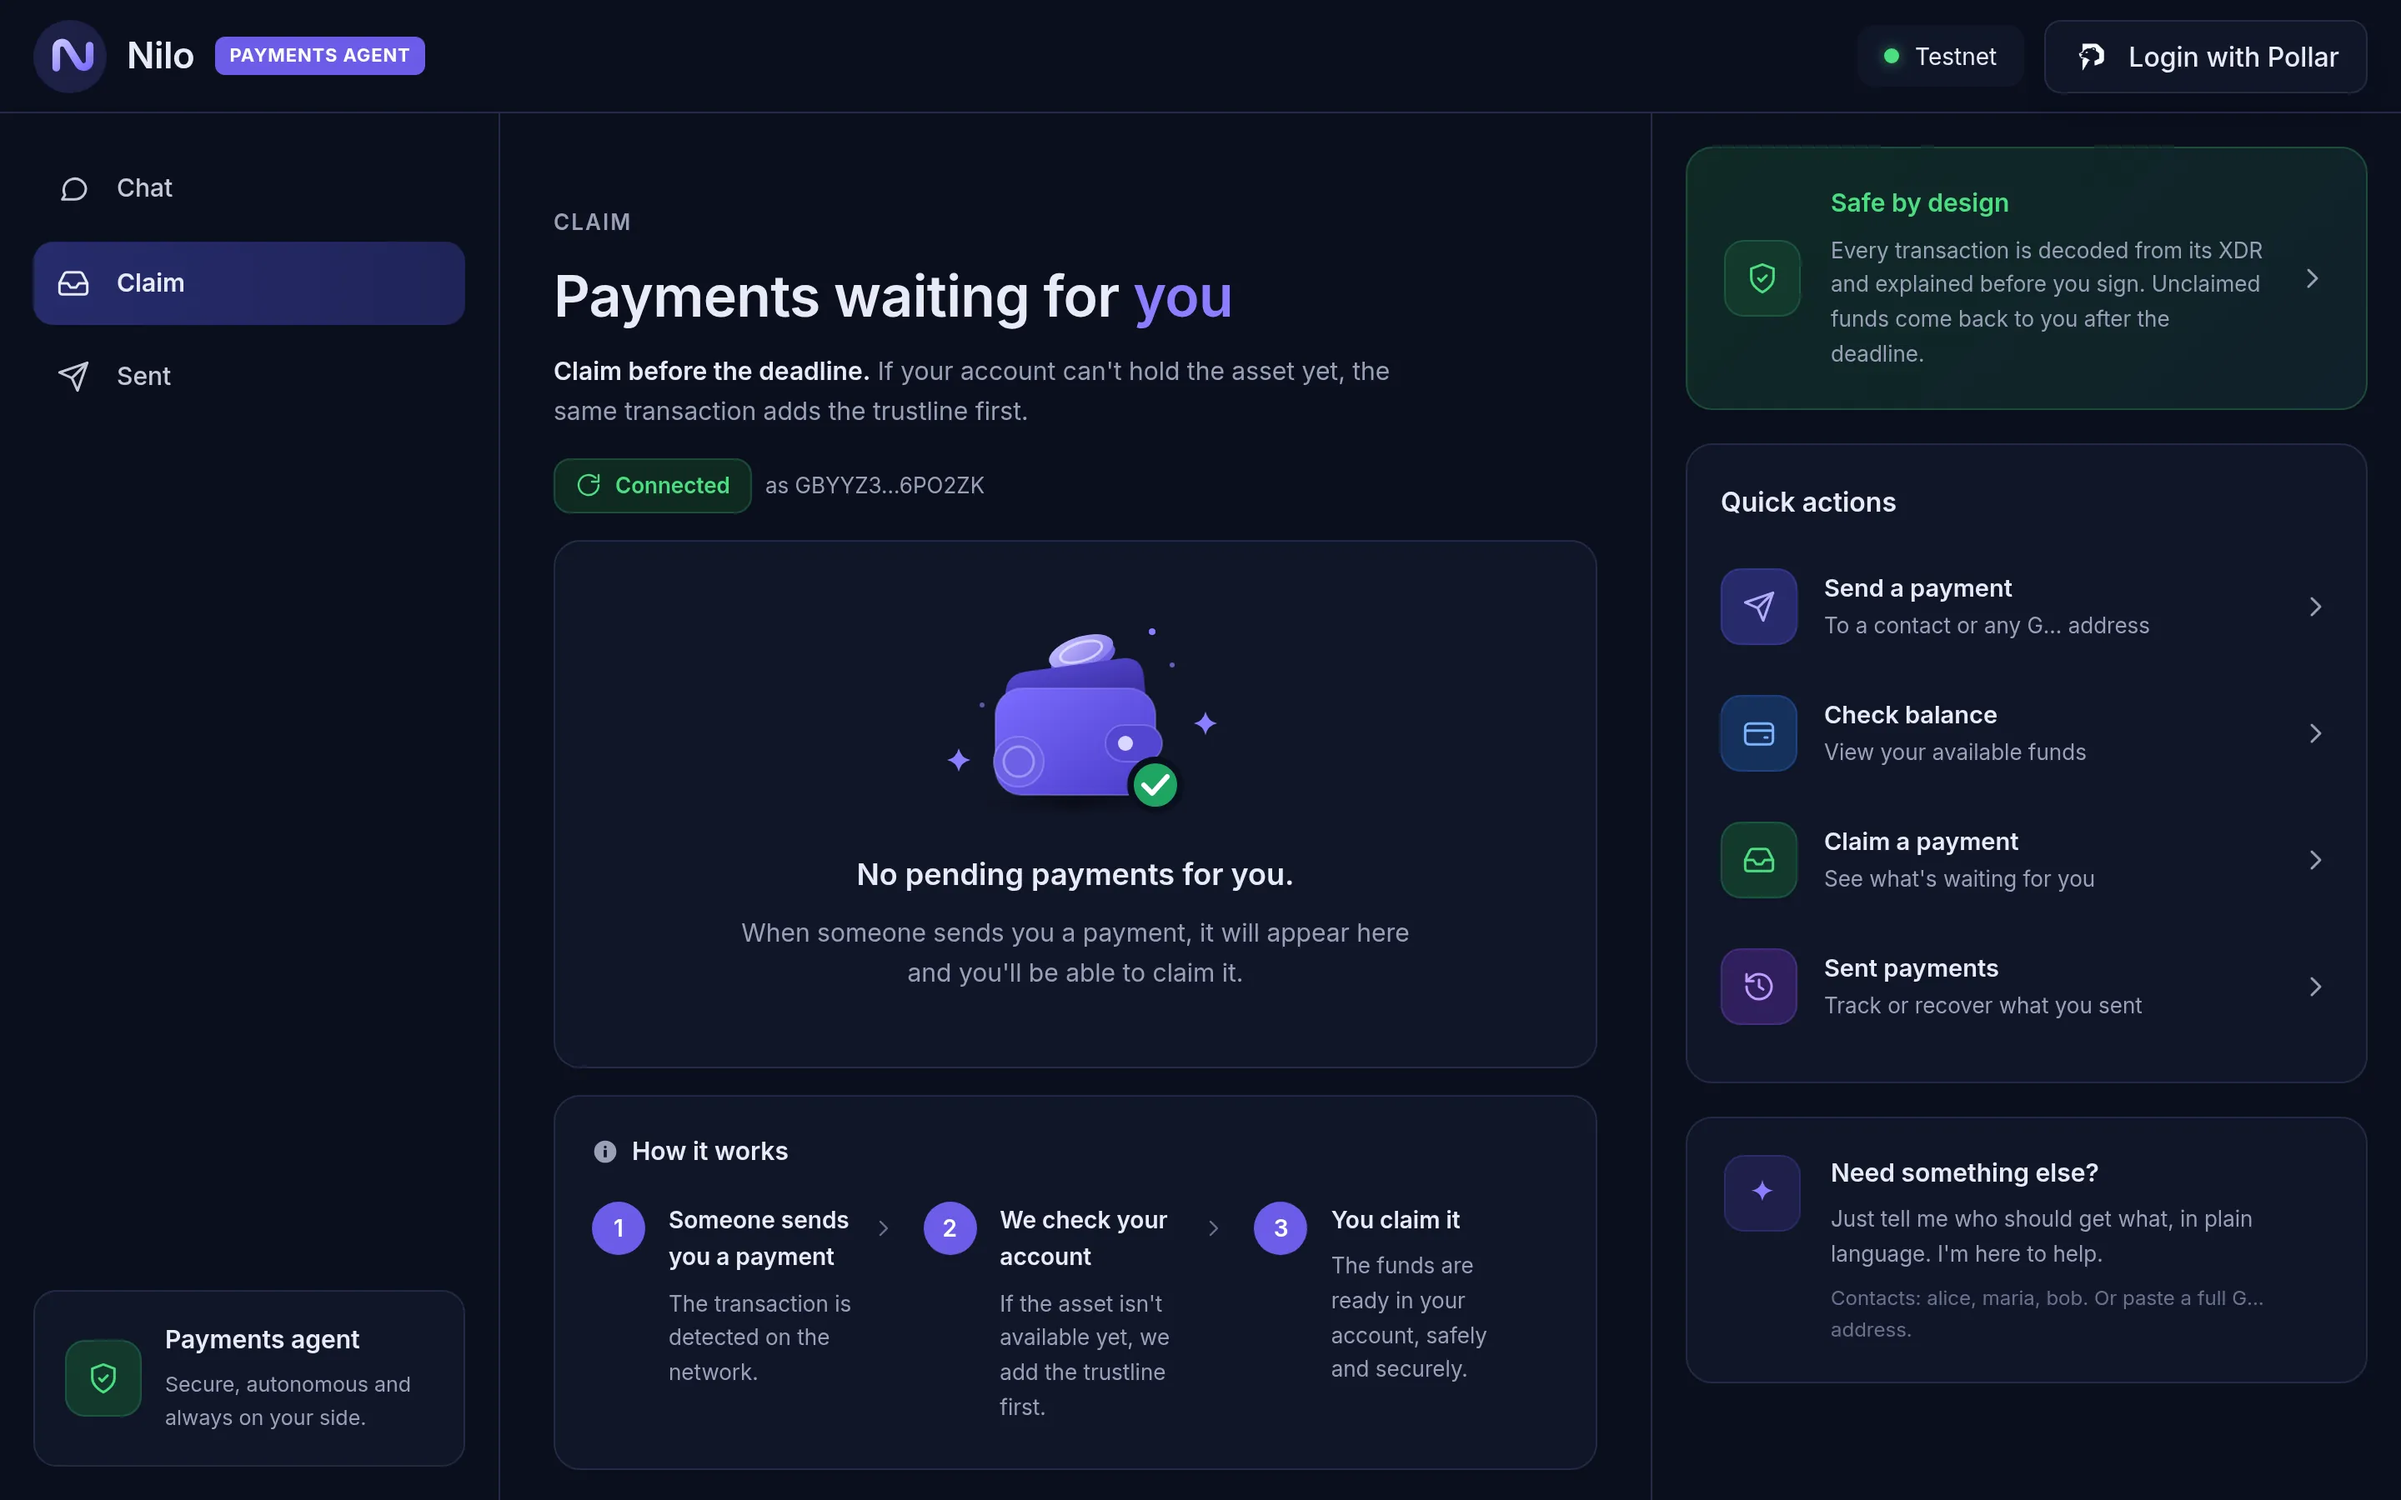
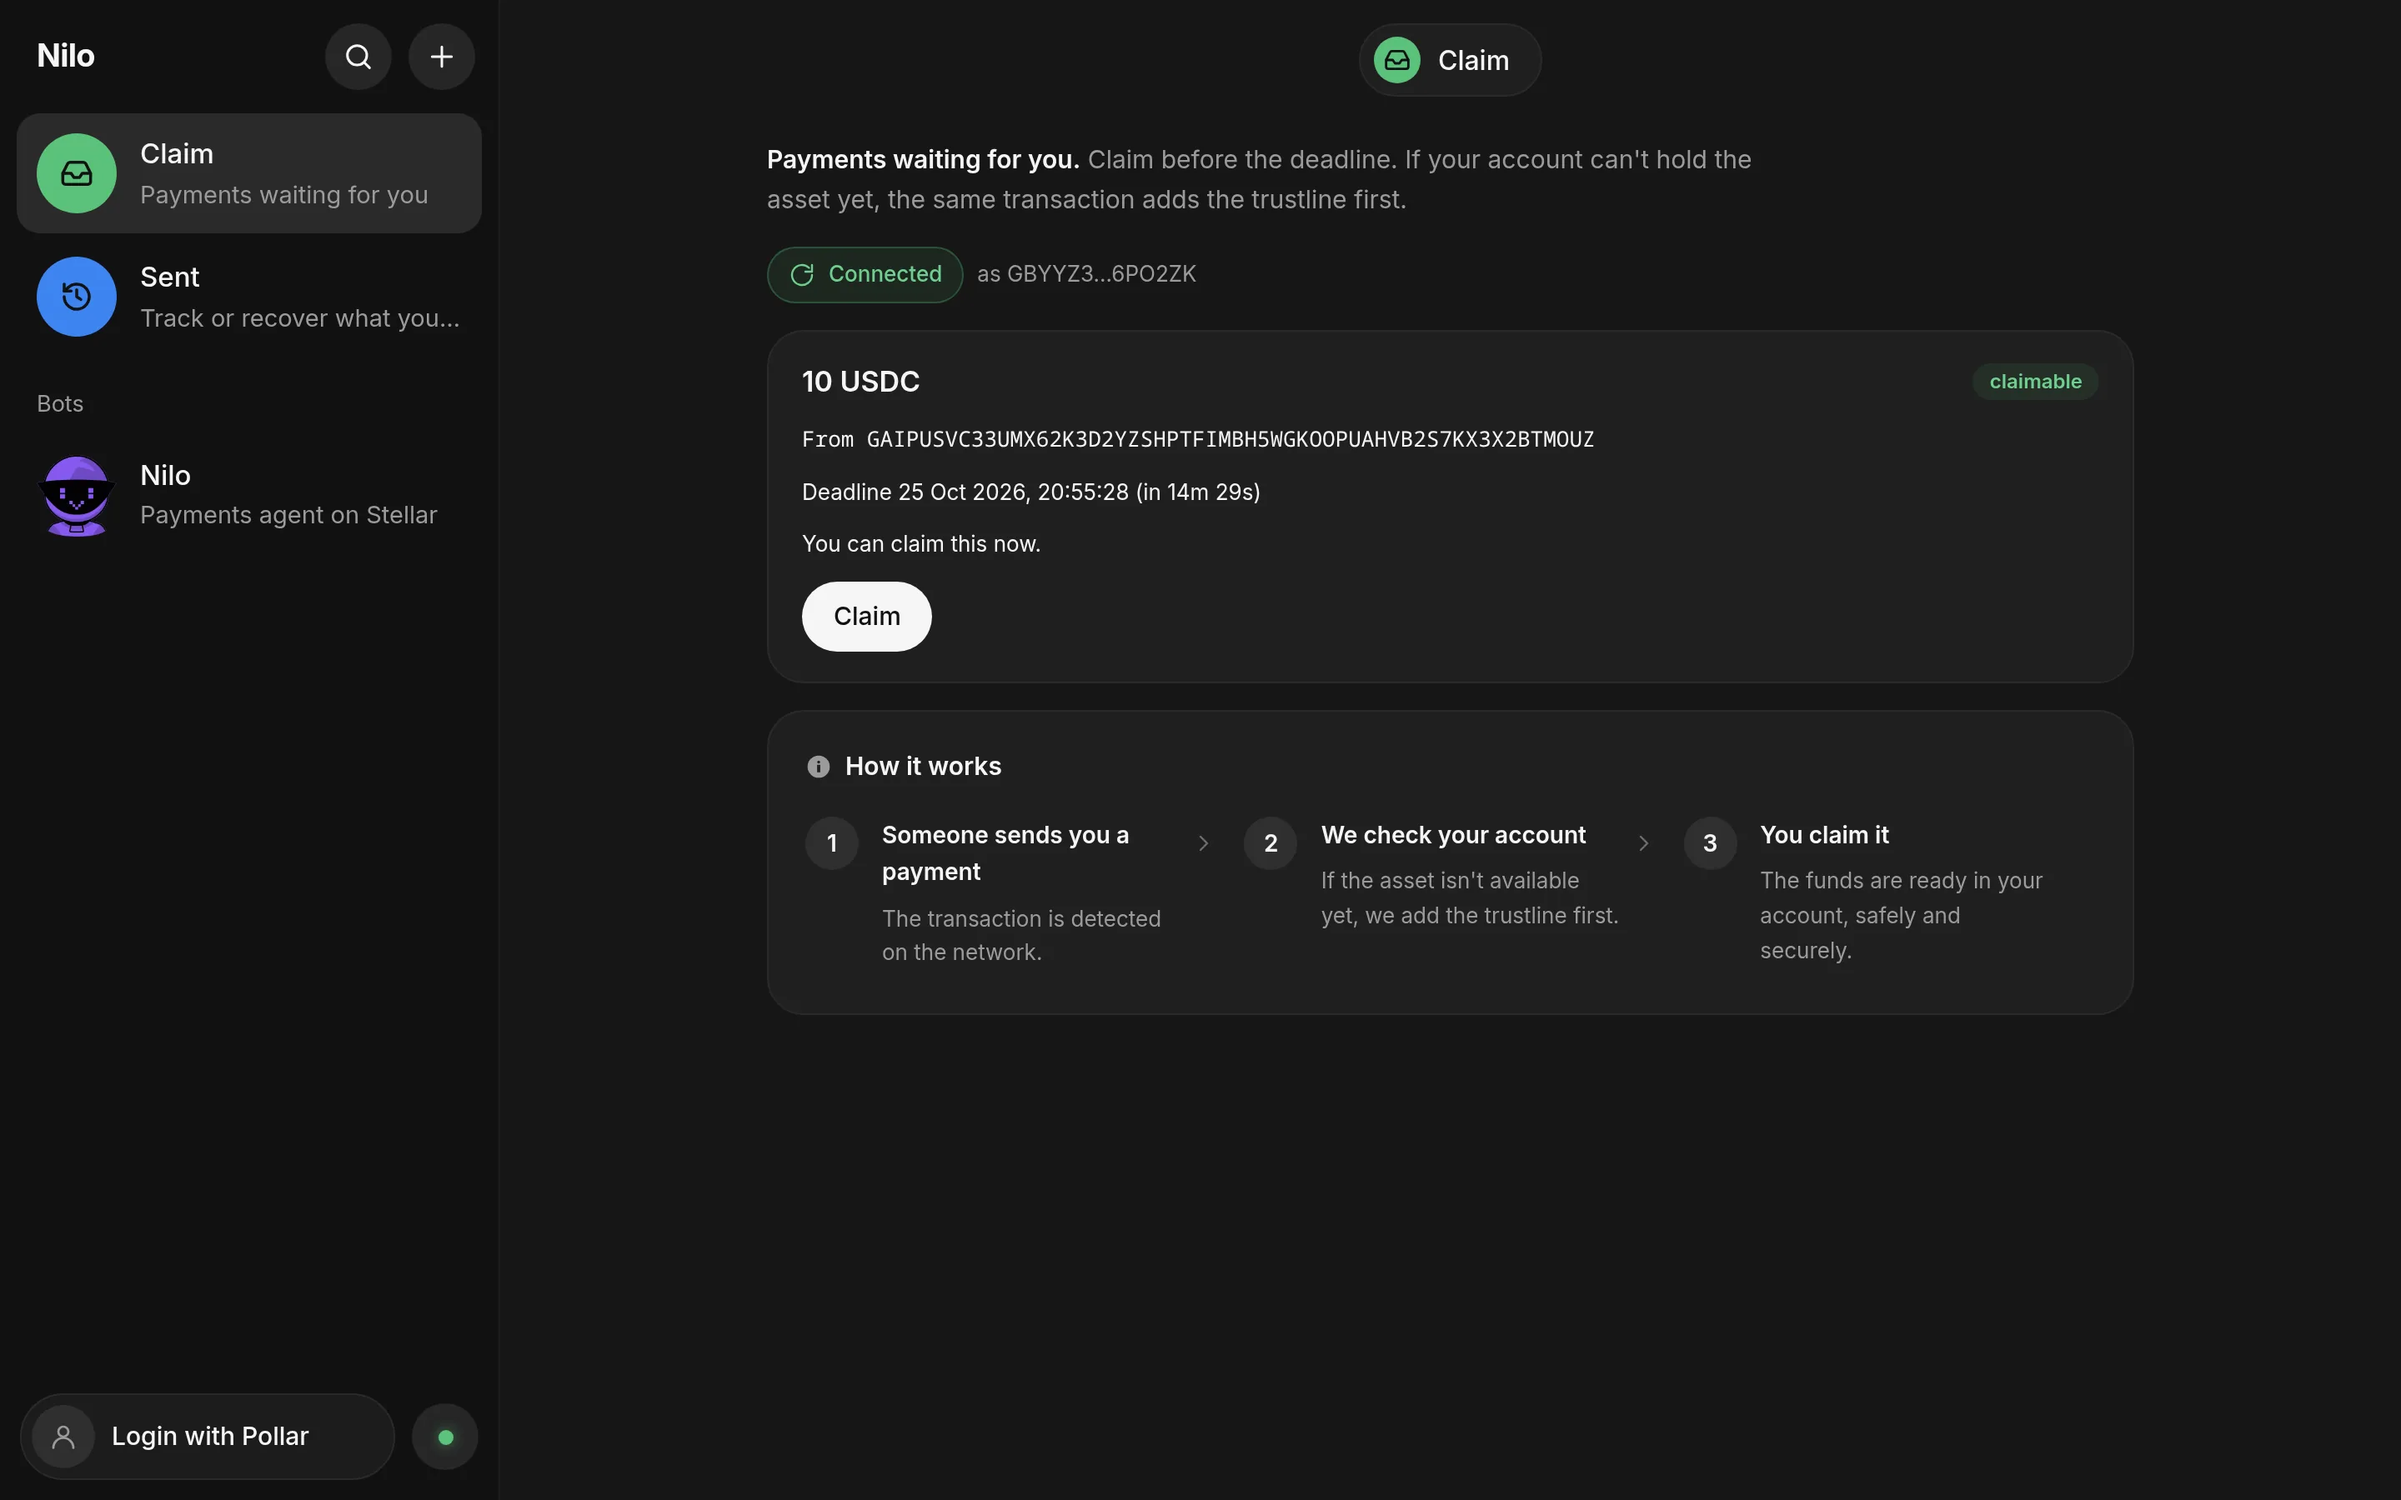
Update the README screenshots to the current UI
New captures of the chat home, the review, Claim, Sent and the phone layout, at the
same sizes as before. Claim now shows a payment to claim, and Sent one waiting and
one recoverable; the captions say so.

diff --git a/README.md b/README.md
@@ -9,7 +9,7 @@ itself, not written by the AI.
 
 > HackMeridian 2026 · Stellar Unlocked track · **testnet only**
 
-![Nilo home: chat with quick actions for sending, checking the balance, claiming and recovering](docs/screenshots/home.webp)
+![Nilo home: chat with quick actions to send, check the balance, claim, track sent payments, check a price and send in reais](docs/screenshots/home.webp)
 
 ## Contents
 
@@ -91,9 +91,10 @@ Deadlines run from 60 seconds to 30 days. A built transaction stays valid for 18
 | Nilo never holds your funds or keys | Signing happens in the user's wallet: Freighter or Albedo, or a Pollar email/Google wallet. The app only knows users' public addresses. |
 | The sponsor only signs what it built | The server rebuilds each sponsored claim from the balance ID, checks on Horizon that you are the recipient and the deadline hasn't passed, then signs. It never signs XDR sent by the browser, and the explainer accepts the sponsored shape only from Nilo's own sponsor account. |
 
-This is what you read before signing "50 USDC to maria, 2 minutes". Every line comes from the transaction bytes:
+This is what you read before signing "50 USDC to maria, 2 minutes". Every line comes from the transaction bytes;
+the "≈ US$" value above it comes from the oracle and is not part of the transaction:
 
-![The explanation card decoded from the XDR, with the Sign and send button](docs/screenshots/review.webp)
+![The payment form, the oracle value and the explanation card decoded from the XDR, with the Sign and send button](docs/screenshots/review.webp)
 
 ## Prices from Reflector
 
@@ -181,11 +182,12 @@ The demo uses the nicknames `alice` (sender), `maria` (recipient) and `bob`, all
 
 The **Claim** page, as the recipient sees it. It refreshes on its own, so a new payment shows up without a reload:
 
-![Claim page: payments waiting for the recipient, an empty state and how claiming works](docs/screenshots/claim.webp)
+![Claim page: a 10 USDC payment from alice the recipient can claim, and how claiming works](docs/screenshots/claim.webp)
 
-The **Sent** page, as the sender sees it. Once a deadline passes unclaimed, the payment turns recoverable:
+The **Sent** page, as the sender sees it. A payment waits for the recipient until its deadline; once the deadline
+passes unclaimed, it turns recoverable:
 
-![Sent page: a payment nobody claimed before its deadline, with the Recover button](docs/screenshots/sent.webp)
+![Sent page: one payment waiting for the recipient and one nobody claimed before its deadline, with the Recover button](docs/screenshots/sent.webp)
 
 Helper scripts:
 
